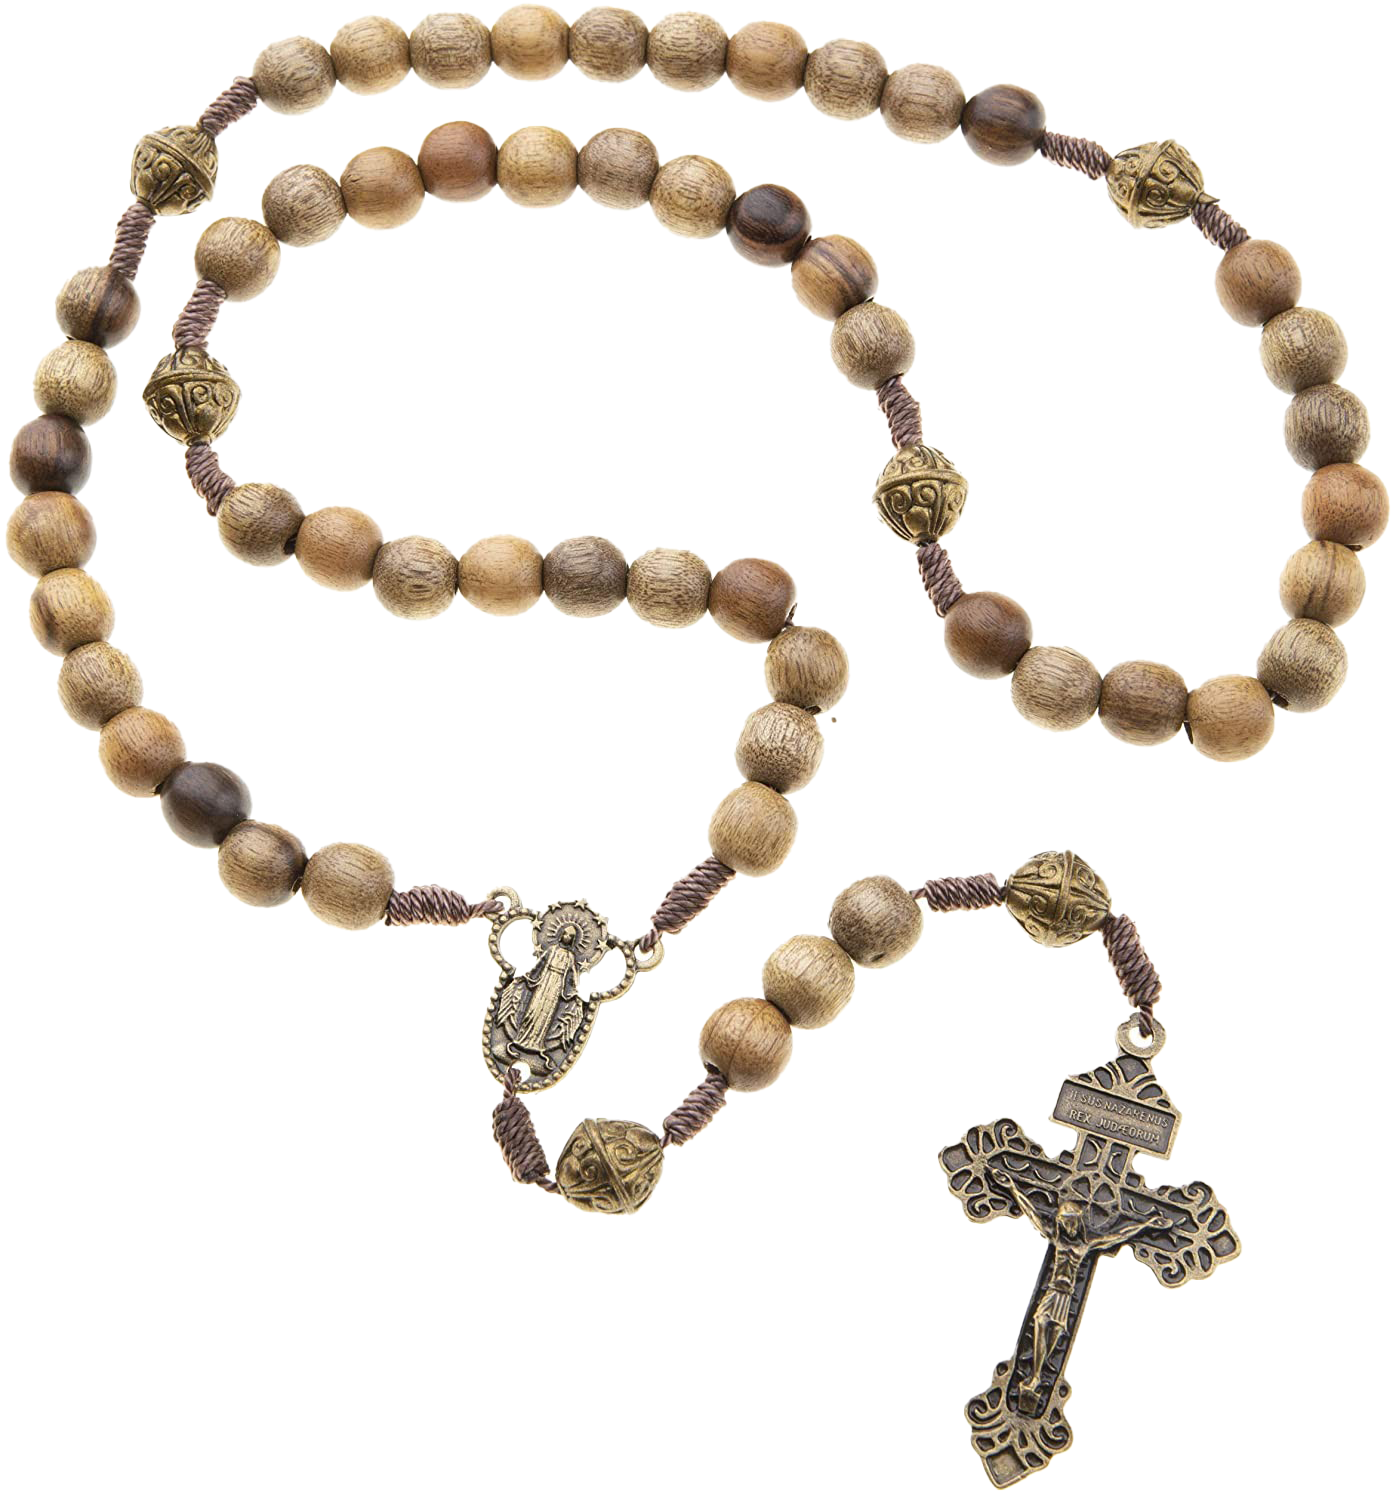
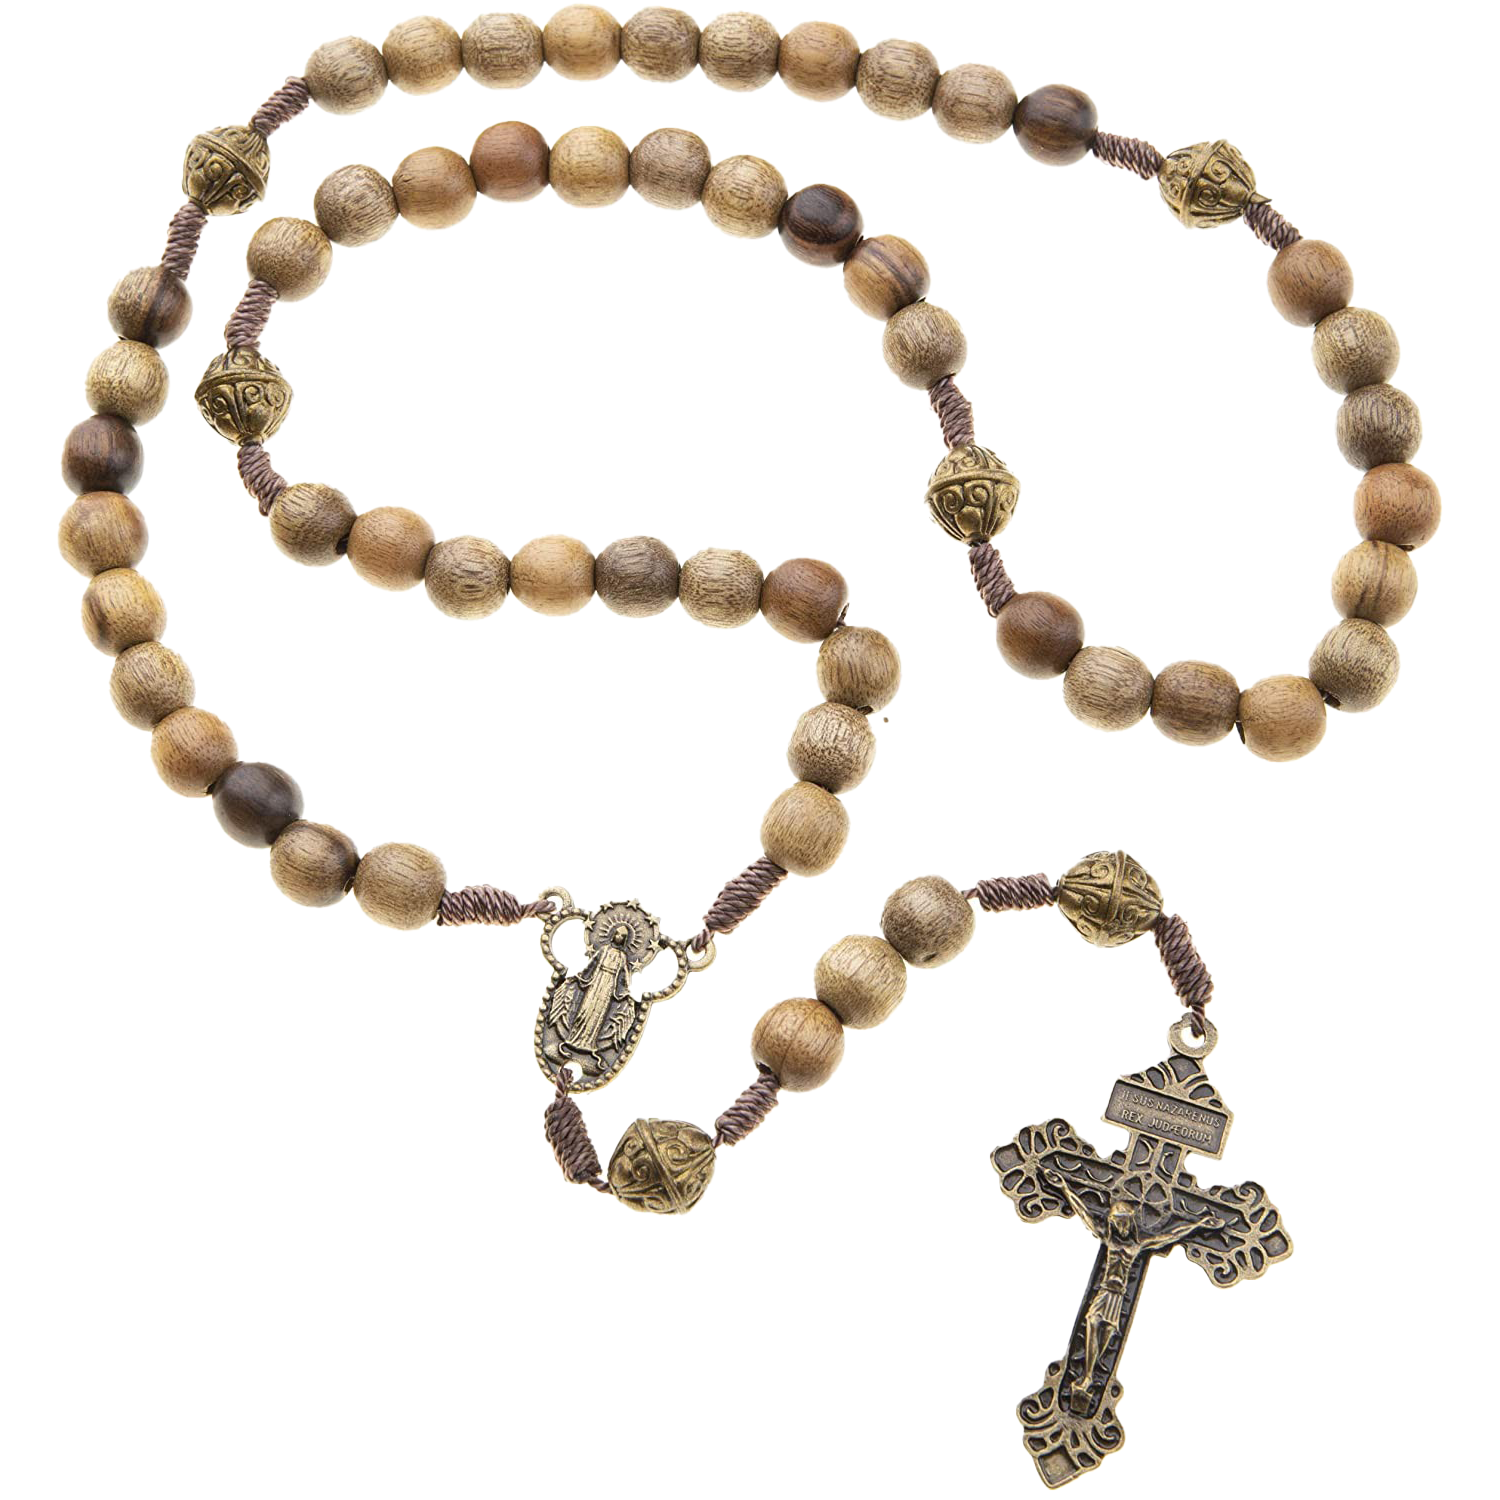
mystery page

Changed region(s): [[0.0, 0.0, 1.0, 0.828], [0.4928, 0.552, 0.8933, 1.0]]

diff --git a/ui/src/app/index.tsx b/ui/src/app/index.tsx
@@ -8,6 +8,7 @@ import { ThemedText } from '@/components/themed-text';
 import { ThemedView } from '@/components/themed-view';
 import { WebBadge } from '@/components/web-badge';
 import { BottomTabInset, MaxContentWidth, Spacing } from '@/constants/theme';
+import { useRouter } from 'expo-router';
 import { SymbolView } from 'expo-symbols';
 import { useTheme } from '@/hooks/use-theme';
 
@@ -32,18 +33,17 @@ function getDevMenuHint() {
 
 export default function HomeScreen() {
   const theme = useTheme();
+  const router = useRouter();
 
   const mysteries = ["Joyful", "Glorious", "Sorrowful", "Luminous"];
 
   return (
     <ThemedView style={styles.container}>
       <SafeAreaView style={styles.safeArea}>
-        <ThemedView style={styles.heroSection}>
-          <AnimatedIcon />
-          <ThemedText type="title" style={styles.title}>
-            Rosary App
-          </ThemedText>
-        </ThemedView>
+        <AnimatedIcon />
+        <ThemedText type="title" style={styles.title}>
+          Rosary App
+        </ThemedText>
 
         <ThemedText type="code" style={styles.code}>
           Select a Mystery
@@ -53,6 +53,12 @@ export default function HomeScreen() {
           {mysteries.map((mystery) => (
             <Pressable
               key={mystery}
+              onPress={() =>
+                router.push({
+                  pathname: '/prayer',
+                  params: { mystery },
+                })
+              }
               style={({ pressed }) => pressed && styles.pressed}
             >
               <ThemedView type="backgroundElement" style={styles.linkButton}>
@@ -76,6 +82,7 @@ const styles = StyleSheet.create({
   },
   safeArea: {
     flex: 1,
+    paddingTop: Platform.OS === 'web' ? Spacing.six : 0,
     paddingHorizontal: Spacing.four,
     alignItems: 'center',
     gap: Spacing.three,

diff --git a/ui/src/app/prayer.tsx b/ui/src/app/prayer.tsx
@@ -1,0 +1,59 @@
+import { ThemedText } from '@/components/themed-text';
+import { ThemedView } from '@/components/themed-view';
+import { useLocalSearchParams } from 'expo-router';
+import { Image, Platform, StyleSheet } from 'react-native';
+import { SafeAreaView } from 'react-native-safe-area-context';
+import { BottomTabInset, MaxContentWidth, Spacing } from '@/constants/theme';
+
+export default function PrayerScreen() {
+  const { mystery } = useLocalSearchParams<{ mystery?: string }>();
+
+  if (!mystery) {
+    return (
+      <ThemedView style={styles.container}>
+        <SafeAreaView style={styles.safeArea}>
+            <ThemedText type="title" style={styles.title}>
+                Select a Mystery on the Rosary Page
+            </ThemedText>
+        </SafeAreaView>
+      </ThemedView>
+    );
+  }
+
+  return (
+    <ThemedView style={styles.container}>
+      <SafeAreaView style={styles.safeArea}>
+        <ThemedText type="title" style={styles.title}>
+          {`${mystery} Mysteries`}
+        </ThemedText>
+
+        <Image style={styles.image} source={require('@/assets/images/rosary.png')} />
+ 
+      </SafeAreaView>
+    </ThemedView>
+  );
+}
+
+const styles = StyleSheet.create({
+  container: {
+    flex: 1,
+    justifyContent: 'center',
+    flexDirection: 'row',
+  },
+  safeArea: {
+    flex: 1,
+    paddingTop: Platform.OS === 'web' ? Spacing.six : 0,
+    paddingHorizontal: Spacing.four,
+    alignItems: 'center',
+    gap: Spacing.three,
+    paddingBottom: BottomTabInset + Spacing.three,
+    maxWidth: MaxContentWidth,
+  },
+  title: {
+    textAlign: 'center',
+  },
+  image: {
+    width: 128,
+    height: 128,
+  },
+});

diff --git a/ui/src/components/animated-icon.tsx b/ui/src/components/animated-icon.tsx
@@ -10,38 +10,17 @@ export function AnimatedIcon() {
 }
 
 const styles = StyleSheet.create({
-  imageContainer: {
-    justifyContent: 'center',
-    alignItems: 'center',
-  },
-  glow: {
-    width: 201,
-    height: 201,
-    position: 'absolute',
-  },
   iconContainer: {
     justifyContent: 'center',
     alignItems: 'center',
     width: 128,
     height: 128,
     zIndex: 100,
+    margin: 20,
+    padding: 20,
   },
   image: {
     width: 128,
     height: 128,
-  },
-  background: {
-    borderRadius: 40,
-    experimental_backgroundImage: `linear-gradient(180deg, #3C9FFE, #0274DF)`,
-    width: 128,
-    height: 128,
-    position: 'absolute',
-  },
-  splashOverlay: {
-    ...StyleSheet.absoluteFill,
-    backgroundColor: '#208AEF',
-    alignItems: 'center',
-    justifyContent: 'center',
-    zIndex: 1000,
   },
 });

diff --git a/ui/src/components/app-tabs.tsx b/ui/src/components/app-tabs.tsx
@@ -27,6 +27,14 @@ export default function AppTabs() {
           renderingMode="template"
         />
       </NativeTabs.Trigger>
+
+      <NativeTabs.Trigger name="prayer">
+        <NativeTabs.Trigger.Label>Current Mystery</NativeTabs.Trigger.Label>
+        <NativeTabs.Trigger.Icon
+          src={require('@/assets/images/book.png')}
+          renderingMode="template"
+        />
+      </NativeTabs.Trigger>
     </NativeTabs>
   );
 }

diff --git a/ui/src/components/app-tabs.web.tsx b/ui/src/components/app-tabs.web.tsx
@@ -27,6 +27,8 @@ export default function AppTabs() {
           <TabTrigger name="explore" href="/explore" asChild>
             <TabButton>Info</TabButton>
           </TabTrigger>
+          <TabTrigger name="prayer" href="/prayer" asChild>
+          </TabTrigger>
         </CustomTabList>
       </TabList>
     </Tabs>

diff --git a/ui/src/app/explore.tsx b/ui/src/app/explore.tsx
@@ -71,7 +71,7 @@ export default function TabTwoScreen() {
           </ThemedView>
 
         </ThemedView>
-        {Platform.OS === 'web' && <WebBadge />}
+        <WebBadge />
       </ThemedView>
     </ScrollView>
   );
